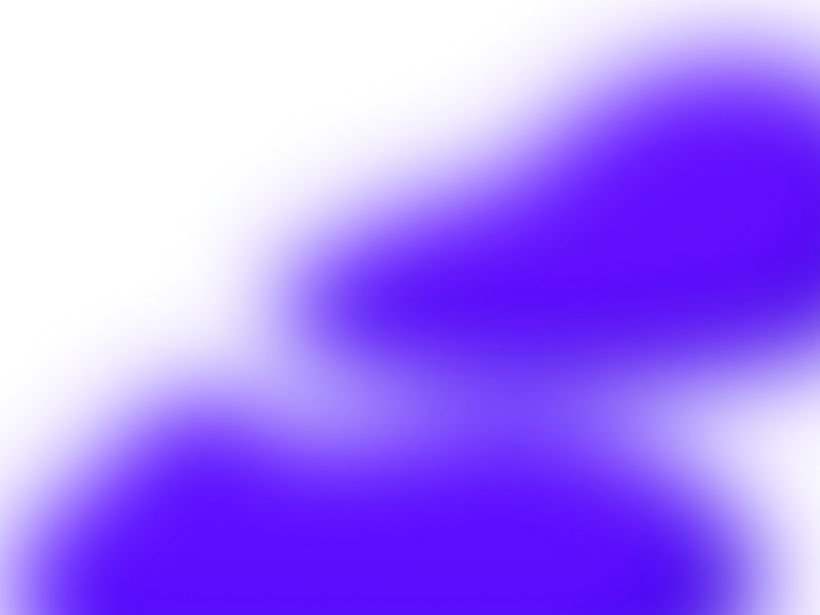
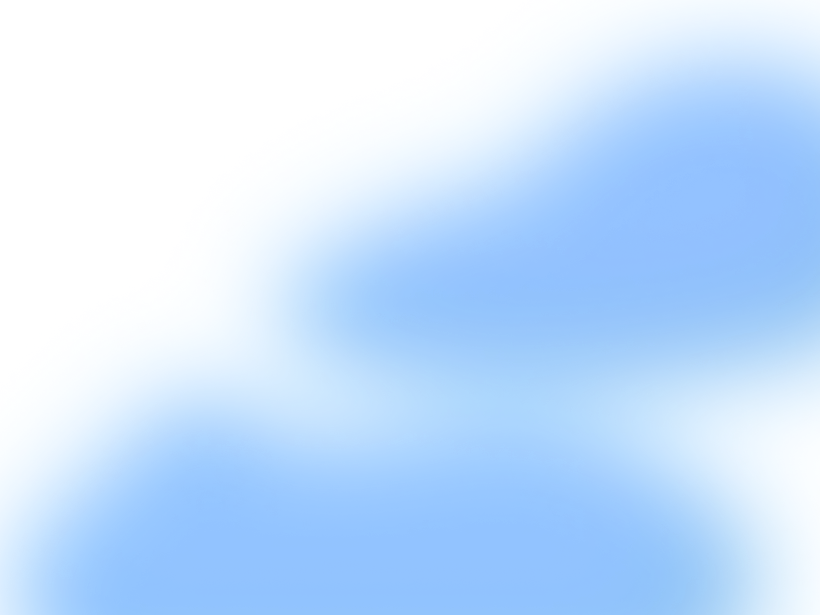
Changed background

diff --git a/src/components/DataMain.jsx b/src/components/DataMain.jsx
@@ -5,31 +5,31 @@ import bar from '../assets/bar.png';
 const DataMain = ({uvindex,feelslike, humidity, visibility}) => {
   return (
     <SectionContainer className={'py-10 pb-32 text-center grid grid-cols-2 md:grid-cols-2 lg:grid-cols-4 gap-3 font-semibold text-3xl sm:text-4xl text-white items-center justify-center'}>
-      <div  className='flex flex-col gap-y-4 bg-[#ffffff5c] items-start border border-[#ffffff80] shadow-2xl rounded-3xl px-5 sm:px-10 py-5 '>
-        <p className='text-sm text-zinc-800'>UV INDEX</p>
+      <div  className='flex flex-col gap-y-4 bg-[#3b545c38] items-start border border-[#ffffff19] shadow-2xl rounded-3xl px-5 sm:px-10 py-5 '>
+        <p className='text-sm text-white'>UV INDEX</p>
         <div>
-        <p className='text-zinc-800 font-bold text-4xl sm:text-5xl pt-1 text-left'>{uvindex}</p>
-        <p className='text-zinc-800 text-xl sm:text-2xl '>Moderate</p>
+        <p className='text-white font-extrabold text-4xl sm:text-5xl pt-1 text-left'>{uvindex}</p>
+        <p className='text-white text-xl sm:text-2xl '>Moderate</p>
         </div>
         <img src={bar} alt="" />
       </div>
 
-      <div  className='flex flex-col gap-y-4 bg-[#ffffff5c] items-start border border-[#ffffff80] shadow-2xl rounded-3xl px-5 sm:px-10 py-5 '>
-        <p className='text-sm text-zinc-800'>FEELS LIKE</p>
-        <p className='text-zinc-800 font-bold text-4xl sm:text-5xl '>{feelslike}°</p>
-        <p className='text-sm font-normal text-zinc-800 text-left'>Similar to the actual tempeture.</p>
+      <div  className='flex flex-col gap-y-4 bg-[#3b545c38] items-start border border-[#ffffff19] shadow-2xl rounded-3xl px-5 sm:px-10 py-5 '>
+        <p className='text-sm text-white'>FEELS LIKE</p>
+        <p className='text-white font-extrabold text-4xl sm:text-5xl '>{feelslike}°</p>
+        <p className='text-sm font-normal text-white text-left'>Similar to the actual tempeture.</p>
       </div>
 
-      <div  className='flex flex-col gap-y-4 bg-[#ffffff5c] items-start border border-[#ffffff80] shadow-2xl rounded-3xl px-5 sm:px-10 py-5 '>
-        <p className='text-sm text-zinc-800'>HUMIDITY</p>
-        <p className='text-zinc-800 font-bold text-4xl sm:text-5xl'>{humidity}%</p>
-        <p className='text-sm font-normal text-zinc-800 text-left'>The dew point is approximately 17 right now</p>
+      <div  className='flex flex-col gap-y-4 bg-[#3b545c38] items-start border border-[#ffffff19] shadow-2xl rounded-3xl px-5 sm:px-10 py-5 '>
+        <p className='text-sm text-white'>HUMIDITY</p>
+        <p className='text-white font-extrabold text-4xl sm:text-5xl'>{humidity}%</p>
+        <p className='text-sm font-normal text-white text-left'>The dew point is about 17 right now</p>
       </div>
 
-      <div  className='flex flex-col gap-y-4 bg-[#ffffff5c] items-start border border-[#ffffff80] shadow-2xl rounded-3xl px-5 sm:px-10 py-5 '>
-        <p className='text-sm text-zinc-800'>VISIBILITY</p>
-        <p className='text-zinc-800 font-bold text-4xl sm:text-5xl'>{visibility} km</p>
-        <p className='text-sm font-normal text-zinc-800 text-left'>The visibility is around of 8 km</p>
+      <div  className='flex flex-col gap-y-4 bg-[#3b545c38] items-start border border-[#ffffff19] shadow-2xl rounded-3xl px-5 sm:px-10 py-5 '>
+        <p className='text-sm text-white'>VISIBILITY</p>
+        <p className='text-white font-extrabold text-4xl sm:text-5xl'>{visibility} km</p>
+        <p className='text-sm font-normal text-white text-left'>The visibility is around of 8 km</p>
       </div>
     </SectionContainer>
   );

diff --git a/src/components/Search.jsx b/src/components/Search.jsx
@@ -87,20 +87,20 @@ const Search = () => {
   return (
     <SectionContainer id="search" className={'mt-5'}>
       <form className="flex justify-center ">
-        <div className="flex  relative p-1 border border-white/5 rounded-full w-full sm:w-1/3">
+        <div className="flex  relative p-1 border bg-[#0000000f] border-white/5 rounded-full w-full sm:w-1/3">
           <input
-            className='flex-1 p-2 pl-4 bg-white/20 focus:outline-none placeholder:text-[#313341] text-[#313341] font-bold  rounded-full w-full'
-            placeholder='Type your place'
+            className='flex-1 p-2 pl-4 bg-[#24333C] focus:outline-none placeholder:text-white text-white font-bold  rounded-full w-full'
+            placeholder='Search your place'
             value={searchTerm}
             onClick={handleInputClick}
             onChange={handleInputChange}
           />
           {showSuggestions && suggestions.length > 0 && (
-            <ul ref={suggestionsRef} className="absolute z-10 left-0 right-0 mt-[3.3rem] p-1 backdrop-blur-3xl border rounded-3xl border-white/20  shadow-3xl max-h-72 overflow-y-hidden">
+            <ul ref={suggestionsRef} className="absolute z-10 left-0 right-0 mt-[3.3rem] p-1 backdrop-blur-3xl border rounded-3xl border-[#ffffff10]  shadow-3xl max-h-72 overflow-y-hidden">
               {suggestions.map(city => (
                 <li
                   key={city.id}
-                  className="p-3 text-base  font-extrabold text-[#111115e0] cursor-pointer hover:bg-white/10 hover:text-zinc-800  rounded-[19px]"
+                  className="p-3 text-base  font-extrabold text-white cursor-pointer hover:bg-[#00000014] hover:text-white  rounded-[19px]"
                   onClick={() => handleSuggestionClick(city)}
                 >
                   {city.name}, {city.country}

diff --git a/src/components/Forecast.jsx b/src/components/Forecast.jsx
@@ -139,17 +139,17 @@ const Forecast = () => {
                   flex: "0 0 auto", // Esto evita que los elementos se contraigan
                   boxShadow: "0px 4px 10px 0px rgba(0, 0, 0, 0.08)"
                 }}
-                className="flex flex-col justify-center text-lg font-medium items-center  bg-[#FFFFFF4D] hover:bg-[#FFFFFFB2] cursor-pointer rounded-full gap-y-2 py-2"
+                className="flex flex-col justify-center text-lg font-medium items-center border border-[#ffffff10]  bg-[#3b545c38] hover:bg-[#9fb1b738] cursor-pointer rounded-full gap-y-2 py-2"
                 key={index}
               >
-                <p className="pt-2 text-[15px] font-semibold text-[#303345]">{hour.hour}</p>
+                <p className="pt-2 text-[15px] font-semibold text-white">{hour.hour}</p>
                 <div className="flex flex-col items-center">
                     
                     <img className="pt-2" src={rayo} width={32} alt="" />
                     <p className="text-[#617bff] font-bold text-xs">70%</p>
 
                 </div>
-                <p className="pb-2 font-bold text-xl text-[#303345]">{hour.temp}</p>
+                <p className="pb-2 font-bold text-xl text-white">{hour.temp}</p>
               </div>
             ))}
           </div>

diff --git a/src/App.css b/src/App.css
@@ -1,7 +1,7 @@
 @import url('https://fonts.googleapis.com/css2?family=Manrope:wght@200;300;400;500;600;700;800&family=Poppins:ital,wght@0,100;0,200;0,300;0,400;0,500;0,600;0,700;0,800;0,900;1,100;1,200;1,300;1,400;1,500;1,600;1,700;1,800;1,900&display=swap');
 
 body {
-    background: linear-gradient(120deg, #FEE3BC 23.22%, #F39876 99.52%);
+    background: linear-gradient(120deg, #1B262C 23.22%, #24353E 99.52%);
     font-family: 'Manrope', sans-serif;
     position: relative;
     margin: 0;
@@ -15,10 +15,11 @@ body::before {
     left: 0;
     width: 100%;
     height: 100%;
-    background-image: url(./assets/bg.png);
-    fill: linear-gradient(180deg, #FEB054 0%, #FEA14E 100%);
-    box-shadow: 0px 0px 95px 0px #FF7E36 inset, -51px -37px 60px 0px rgba(193, 93, 0, 0.50) inset;
-    filter: drop-shadow(0px 0px 100px #FF7E36) blur(50px);
+    background-image: url(./assets/Ellipse2.png);
+    background-size: cover;
+    fill: linear-gradient(180deg, #24353E 0%, #24353E 100%);
+    box-shadow: 0px 0px 95px 0px #24353E inset, -51px -37px 60px 0px rgba(42, 61, 71, 0.5) inset;
+    filter: drop-shadow(0px 0px 100px #24353E) blur(50px);
     z-index: -1; /*45278B Coloca la capa antes que el contenido principal */
 }
 

diff --git a/src/components/Temp.jsx b/src/components/Temp.jsx
@@ -6,11 +6,11 @@ const Temp = ({ temp, conditions, resolvedAdress, icon }) => {
     console.log(iconPath);
     return (
         <SectionContainer className="flex flex-col pt-7 items-center text-white ">
-            <p className="text-[#313341] text-3xl sm:text-5xl font-extrabold pb-7 sm:pb-10 text-center">{resolvedAdress}</p>
+            <p className="text-white text-3xl sm:text-5xl font-extrabold pb-7 sm:pb-10 text-center">{resolvedAdress}</p>
             <div className="flex flex-col-reverse sm:flex-row gap-x-7 items-center">
                 <div className="flex flex-col sm:gap-y-1 items-center">
-                    <p className="text-[#282b3a] text-6xl sm:text-8xl font-extrabold">{temp}°</p>
-                    <p className="text-[#303345] font-bold text-xl sm:text-2xl">{conditions}</p>
+                    <p className="text-white text-6xl sm:text-8xl font-extrabold">{temp}°</p>
+                    <p className="text-white font-bold text-xl sm:text-2xl">{conditions}</p>
                 </div>
                 <img src={iconPath} width={260} className="drop-shadow-2xl pb-9"  alt="" />
                 
